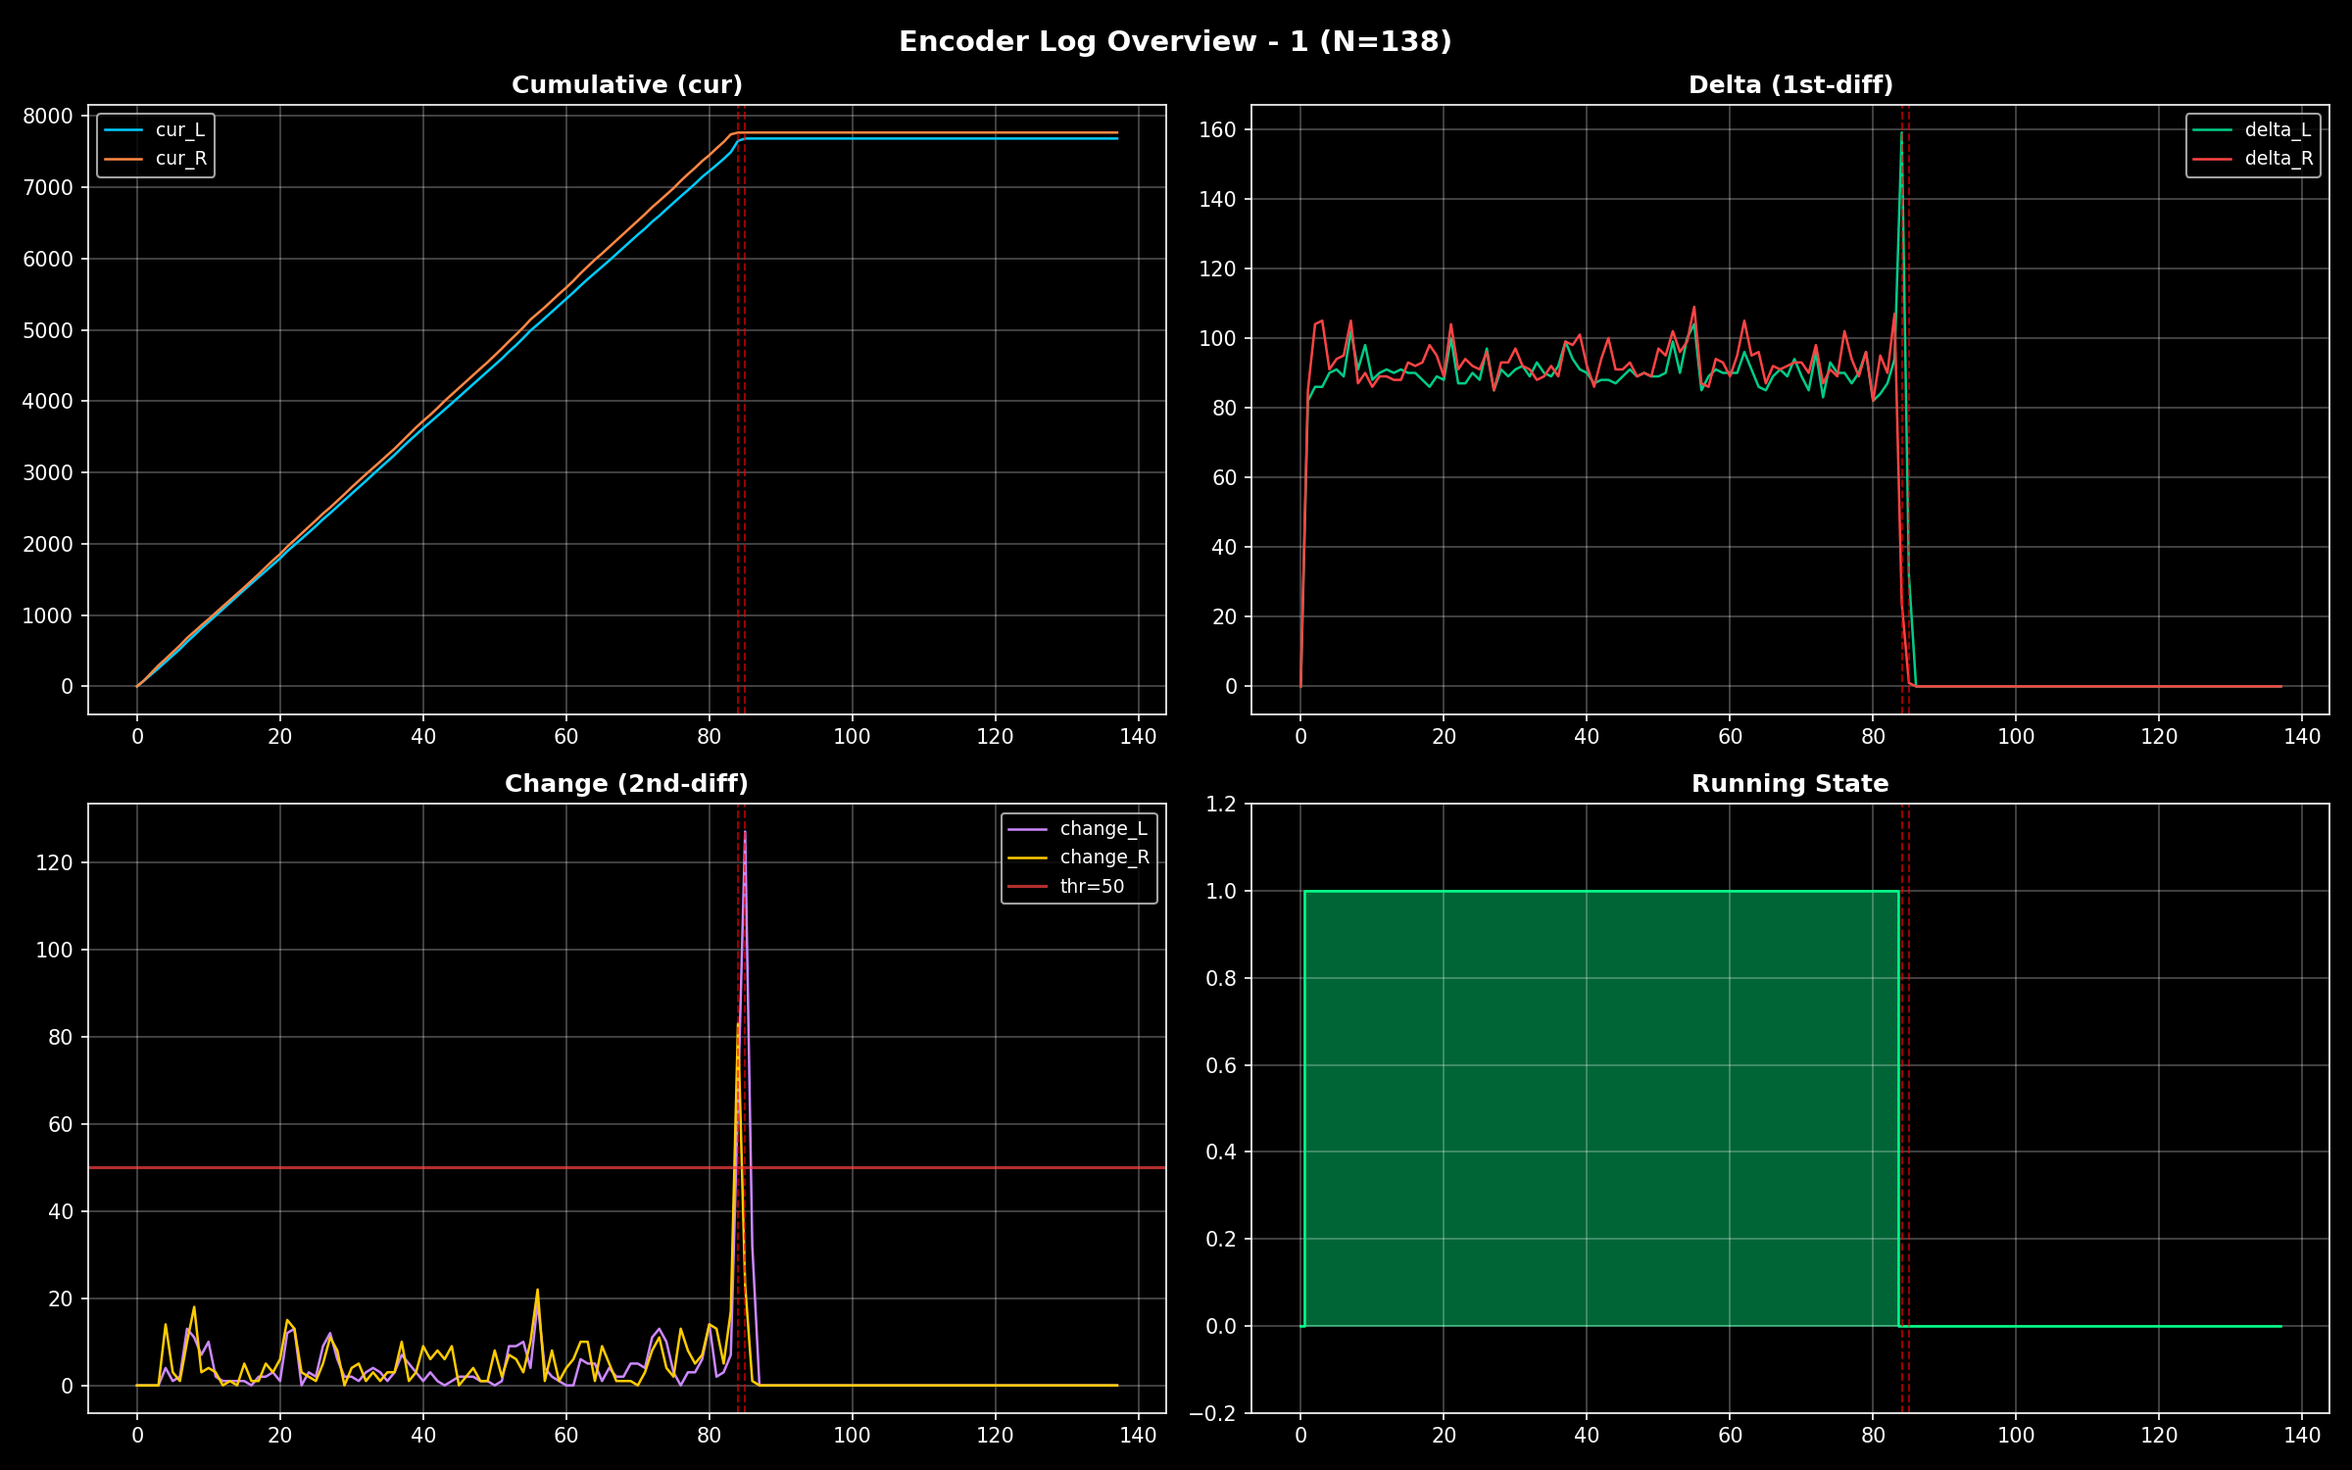
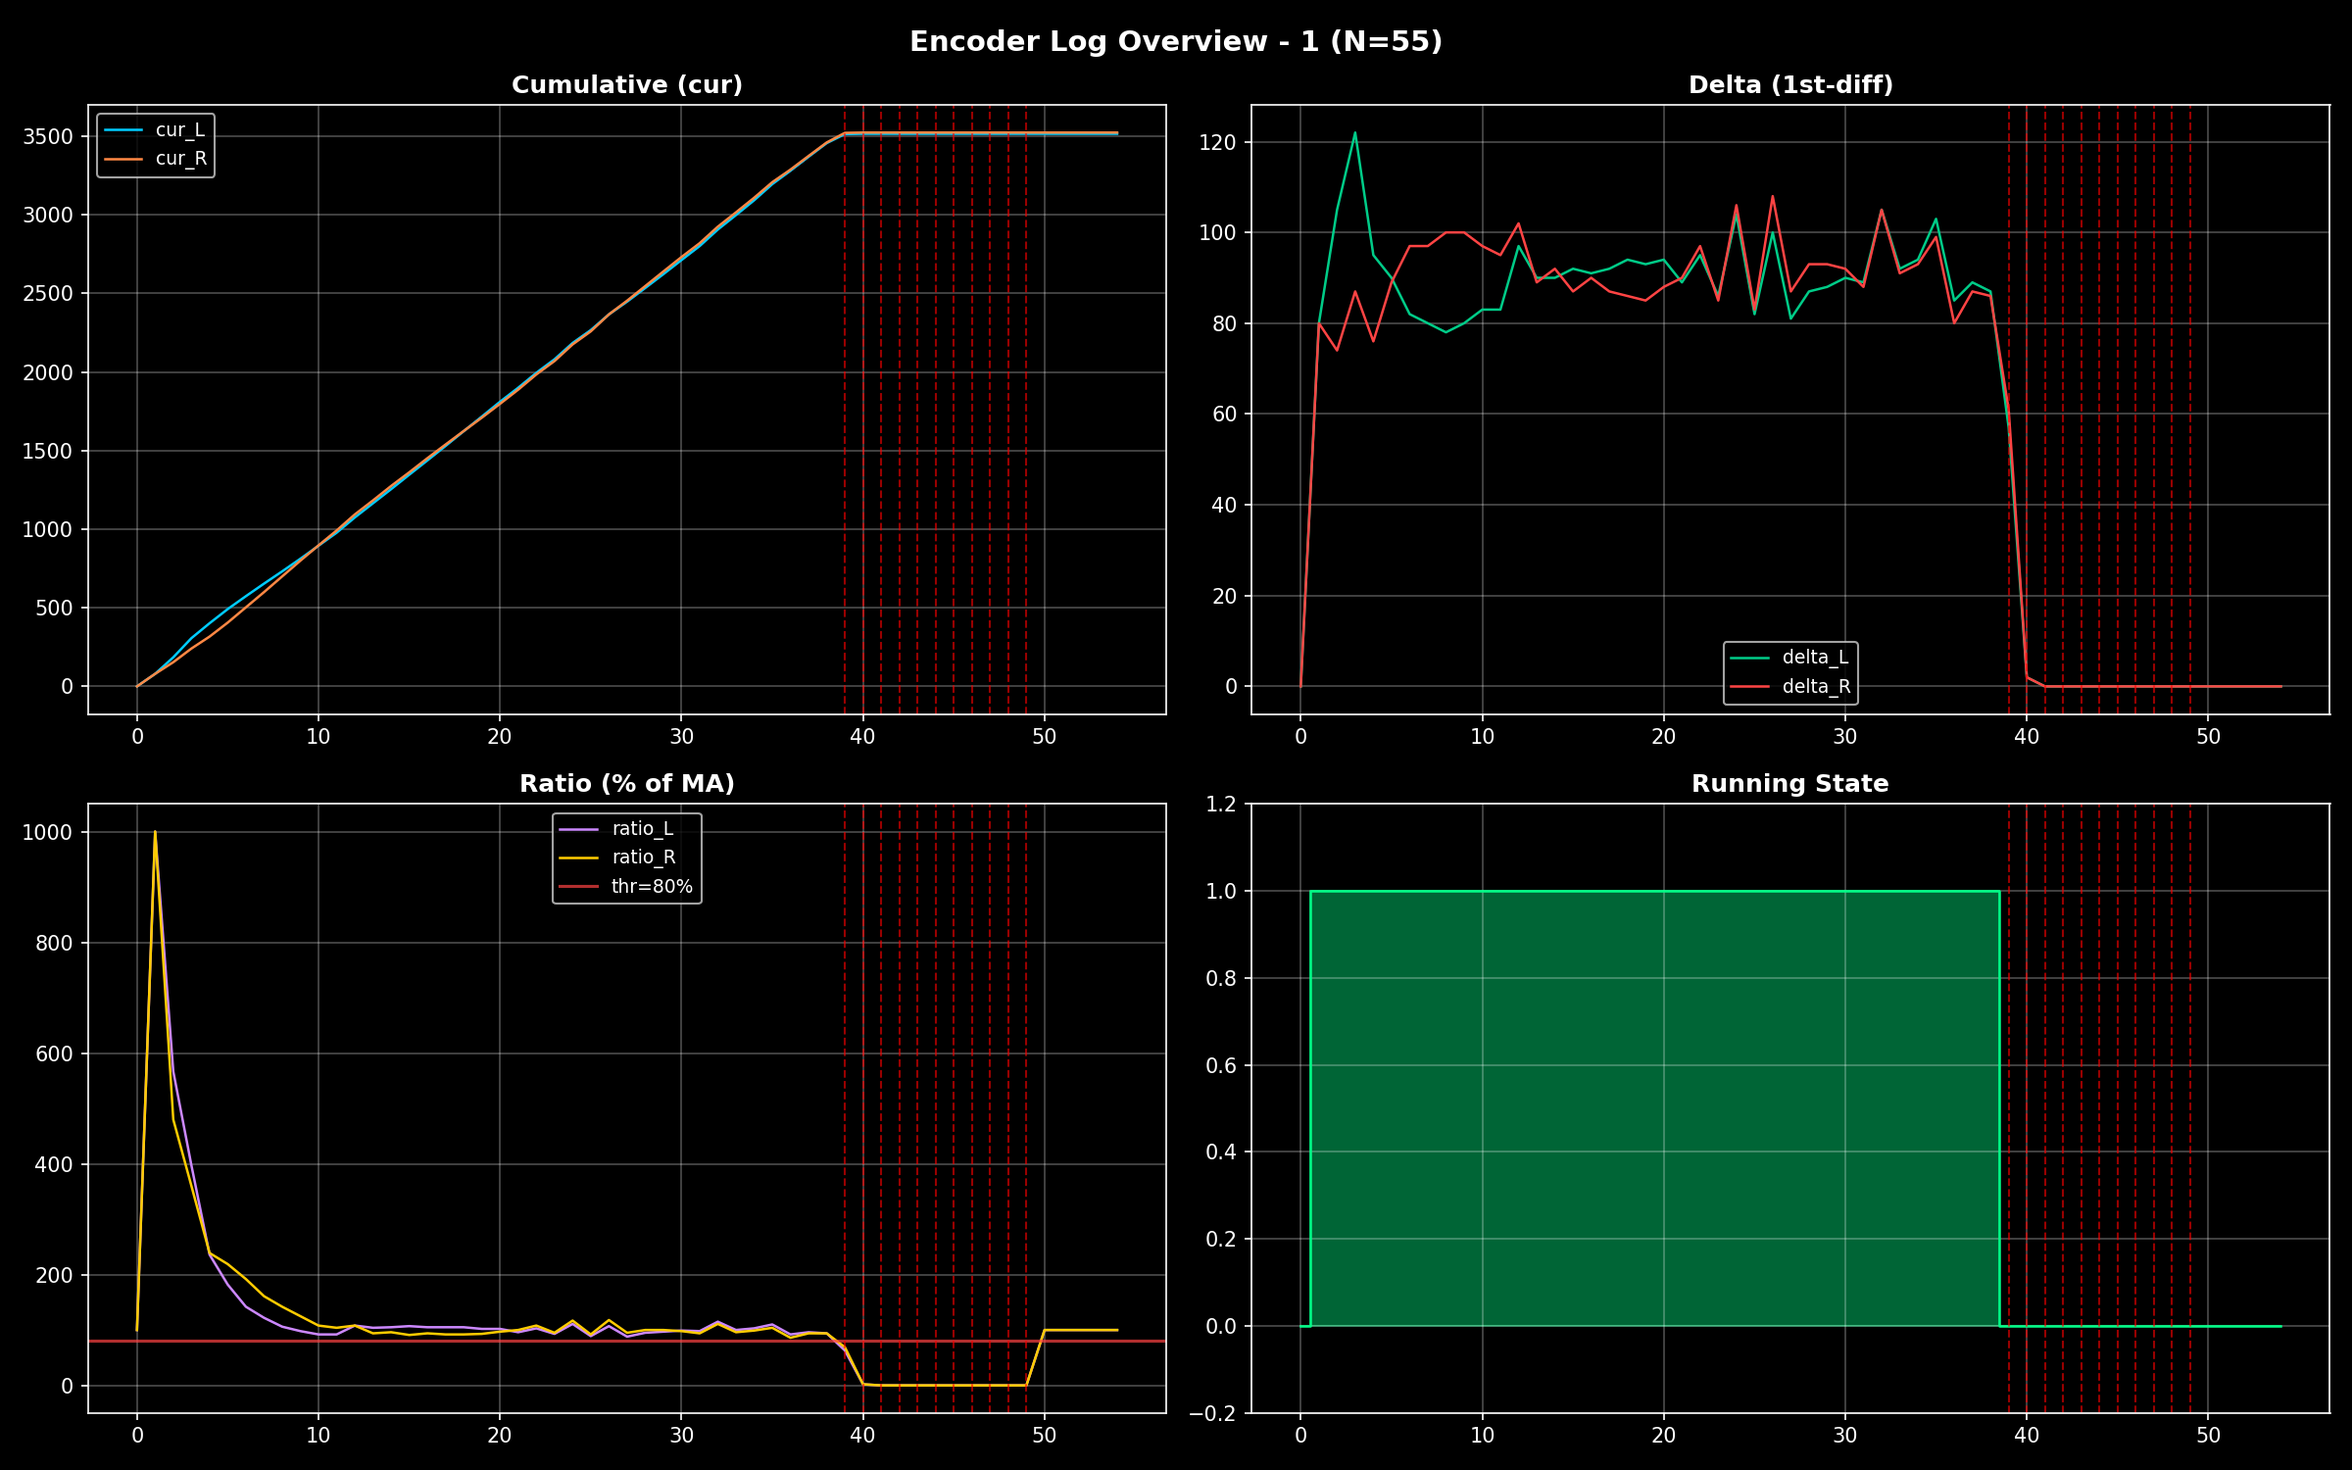
一个可用的base版的碰撞检测，根据当前增量与前10帧增量均值作比较，看有没有掉速，阈值为掉速到原来的80%

diff --git a/main/app_main.cpp b/main/app_main.cpp
@@ -676,20 +676,16 @@ static void experiment_stream(int cmd_sock, int img_sock)
     float g_last_valid_g1 = OUTPUT_WIDTH / 2;
     float g_last_valid_g2 = OUTPUT_WIDTH / 2;
 
-    // 编码器跳变检测（碰撞检测）
+    // 编码器碰撞检测：移动平均比值法
     static int prev_enc_l = 0, prev_enc_r = 0;       // 上一帧累计脉冲值
-    static int prev_delta_l = 0, prev_delta_r = 0;    // 上一帧的增量(用于二阶差分)
     static bool enc_init_done = false;
     
-    // 碰撞检测参数：相邻帧间"增量的变化量"超过此阈值视为突变
-    static const int DELTA_CHANGE_THRESHOLD = 50;       // 脉冲数
-    // 需要至少累计这么多脉冲才认为增量有效(过滤启动阶段噪声)
-    static const int ENC_MIN_DELTA = 5;
-    // 需要连续多少帧有效增量后才启用检测(需要至少2帧才能算二阶差分)
-    static const int ENC_WARMUP_FRAMES = 3;
-    // 正式检测前，prev_delta必须达到此值才允许TRIGGER(防止加速阶段误触)
-    static const int BASELINE_MIN_DELTA = 10;
-    static int warmup_count = 0;
+    // 移动平均窗口参数
+    static const int MA_WINDOW = 10;                   // 滑动窗口大小（帧）
+    static int delta_hist_l[10] = {0}, delta_hist_r[10] = {0};
+    static int ma_idx = 0;                             // 环形写入位置
+    static int ma_count = 0;                           // 已填充帧数
+    static const float MA_DROP_RATIO = 0.80f;          // 当前delta低于均值80%即可触发
     
     while (1) {
         int64_t t0 = esp_timer_get_time();  // 总开始
@@ -743,65 +739,56 @@ static void experiment_stream(int cmd_sock, int img_sock)
         
         esp_camera_fb_return(fb);
 
-        // ========== 编码器跳变检测（碰撞检测）：二阶差分 = 增量的突变 ==========
-        int log_change_l = 0, log_change_r = 0;  // 供外层send_buf使用
+        // ========== 编码器碰撞检测：移动平均比值法 ==========
+        int log_ratio_l = 0, log_ratio_r = 0;  // 供外层send_buf使用
         {
             int enc_l = 0, enc_r = 0;
             encoder_read(&enc_l, &enc_r);
 
             const char *enc_state = "OK";
-            
 
             if (!enc_init_done) {
                 enc_init_done = true;
-                warmup_count = 0;
-                prev_delta_l = 0;
-                prev_delta_r = 0;
                 enc_state = "INIT";
             } else {
                 // 计算本帧增量
                 int cur_delta_l = enc_l - prev_enc_l;
                 int cur_delta_r = enc_r - prev_enc_r;
 
-                // 溢出检测：ESP32编码器每32768清零
+                // 溢出检测：ESP32编码器每32768清零，重置历史窗口
                 bool overflow_l = (enc_l < 100 && prev_enc_l > 30000);
                 bool overflow_r = (enc_r < 100 && prev_enc_r > 30000);
-                
+
                 if (overflow_l || overflow_r) {
                     enc_state = "OVERFLOW";
-                    // 重置warmup，重新积累
-                    warmup_count = 0;
-                    prev_delta_l = 0;
-                    prev_delta_r = 0;
-                    log_change_l = 0;
-                    log_change_r = 0;
-                } else if (warmup_count < ENC_WARMUP_FRAMES) {
-                    // ===== 预热阶段：还没凑够2帧有效历史 =====
-                    if (abs(cur_delta_l) >= ENC_MIN_DELTA && abs(cur_delta_r) >= ENC_MIN_DELTA) {
-                        // 增量够大，记入历史
-                        warmup_count++;
-                        prev_delta_l = cur_delta_l;
-                        prev_delta_r = cur_delta_r;
-                    }
-                    // 增量太小就不计数，但也不重置（等车动起来就行）
-                    enc_state = "WARMUP";
-                    log_change_l = abs(cur_delta_l - prev_delta_l);
-                    log_change_r = abs(cur_delta_r - prev_delta_r);
+                    ma_idx = 0;
+                    ma_count = 0;
                 } else {
-                    // ===== 正式检测阶段：已过warmup，永远不再回退(除非overflow) =====
-                    // 核心逻辑：比较"本帧增量"与"上帧增量"的变化幅度
-                    // 注意：碰撞时delta会骤降(如24→3)，这恰恰是我们要检测的！
-                    int change_l = abs(cur_delta_l - prev_delta_l);
-                    int change_r = abs(cur_delta_r - prev_delta_r);
-                    log_change_l = change_l;
-                    log_change_r = change_r;
+                    // 写入滑动窗口
+                    delta_hist_l[ma_idx] = cur_delta_l;
+                    delta_hist_r[ma_idx] = cur_delta_r;
+                    ma_idx = (ma_idx + 1) % MA_WINDOW;
+                    if (ma_count < MA_WINDOW) ma_count++;
 
-                    // 触发条件：
-                    //   1. 任一轮change超过阈值（OR逻辑：单轮卡住也算碰撞）
-                    //   2. 上帧prev_delta必须够大（说明已有正常行驶基线，不是刚启动）
-                    bool baseline_ok = (abs(prev_delta_l) >= BASELINE_MIN_DELTA && abs(prev_delta_r) >= BASELINE_MIN_DELTA);
-                    if ((change_l > DELTA_CHANGE_THRESHOLD || change_r > DELTA_CHANGE_THRESHOLD) && baseline_ok) {
-                        // 出现增量突变 → 碰撞！
+                    // 计算移动平均
+                    int sum_l = 0, sum_r = 0;
+                    for (int i = 0; i < MA_WINDOW; i++) {
+                        sum_l += delta_hist_l[i];
+                        sum_r += delta_hist_r[i];
+                    }
+                    float avg_l = (float)sum_l / MA_WINDOW;
+                    float avg_r = (float)sum_r / MA_WINDOW;
+
+                    // 本帧delta占均值的百分比
+                    int ratio_l = (avg_l > 0) ? (int)(cur_delta_l / avg_l * 100) : 100;
+                    int ratio_r = (avg_r > 0) ? (int)(cur_delta_r / avg_r * 100) : 100;
+                    log_ratio_l = ratio_l;
+                    log_ratio_r = ratio_r;
+
+                    // 触发条件：窗口已满 + 累积脉冲>2000 + 任一轮delta低于均值60%
+                    bool enc_moving = (abs(enc_l) > 2000 && abs(enc_r) > 2000);
+                    int thr_percent = (int)(MA_DROP_RATIO * 100);
+                    if (ma_count >= MA_WINDOW && enc_moving && (ratio_l < thr_percent || ratio_r < thr_percent)) {
                         motor_stop();
                         g_motor_base_speed = 0;
                         g_motor_running = false;
@@ -809,24 +796,20 @@ static void experiment_stream(int cmd_sock, int img_sock)
                     } else {
                         enc_state = "OK";
                     }
-
-                    // 滚动更新：本轮delta成为下一轮的prev_delta（即使很小也更新）
-                    prev_delta_l = cur_delta_l;
-                    prev_delta_r = cur_delta_r;
                 }
             }
 
             // 每帧统一打印编码器状态
             char enc_log_buf[160];
             int enc_log_len = snprintf(enc_log_buf, sizeof(enc_log_buf),
-                "[Enc] %-7s | cur L=%5d R=%5d | delta L=%5d R=%5d | change L=%3d R=%3d (thr=%2d) | running=%d",
+                "[Enc] %-7s | cur L=%5d R=%5d | delta L=%5d R=%5d | ratio L=%3d%% R=%3d%% (thr=%d%%) | running=%d",
                 enc_state, enc_l, enc_r,
                 enc_l - prev_enc_l, enc_r - prev_enc_r,
-                log_change_l, log_change_r,
-                DELTA_CHANGE_THRESHOLD, (int)g_motor_running);
-            ESP_LOGI(TAG, "%s", enc_log_buf);  // 串口
+                log_ratio_l, log_ratio_r,
+                (int)(MA_DROP_RATIO * 100), (int)g_motor_running);
+            ESP_LOGI(TAG, "%s", enc_log_buf);
             strcat(enc_log_buf, "\n");
-            send(cmd_sock, enc_log_buf, enc_log_len + 1, 0);  // TCP给小程序
+            send(cmd_sock, enc_log_buf, enc_log_len + 1, 0);
 
             // 更新上一帧累计值
             prev_enc_l = enc_l;
@@ -895,8 +878,8 @@ static void experiment_stream(int cmd_sock, int img_sock)
             send_buf[4] = g_motor_r_pwm;
             send_buf[5] = (uint8_t)g1;   // G1: 顶部质心x
             send_buf[6] = (uint8_t)g2;   // G2: 底部质心x
-            send_buf[7] = (uint8_t)(log_change_l > 255 ? 255 : log_change_l);  // 左轮change
-            send_buf[8] = (uint8_t)(log_change_r > 255 ? 255 : log_change_r);  // 右轮change
+            send_buf[7] = (uint8_t)(log_ratio_l > 255 ? 255 : log_ratio_l);  // 左轮delta占比(%)
+            send_buf[8] = (uint8_t)(log_ratio_r > 255 ? 255 : log_ratio_r);  // 右轮delta占比(%)
             memcpy(send_buf + header_size, overlay_data, overlay_size);
 
             int total_sent = send(img_sock, send_buf, frame_packet_size, 0);

diff --git a/py_scripts/utils/tools.py b/py_scripts/utils/tools.py
@@ -506,8 +506,8 @@ def parse_and_plot_enc_log(log_path, output_dir=None):
         解析 [Enc] 格式的编码器日志，提取各字段数值并绑制2x2综合overview图
 
     日志格式示例:
-        [Enc] OK | cur L= 457 R= 404 | delta L= 81 R= 105 | change L= 35 R= 46 (thr=50) | running=1
-        [Enc] TRIGGER | cur L= 963 R= 786 | delta L= 81 R= 103 | change L= 47 R= 56 (thr=50) | running=0
+        [Enc] OK | cur L= 3535 R= 3587 | delta L= 53 R= 56 | ratio L= 59% R= 62% (thr=60%) | running=1
+        [Enc] TRIGGER | cur L= 4657 R= 4662 | delta L= 6 R= 4 | ratio L= 7% R= 5% (thr=60%) | running=0
 
     入参:
         log_path: str - 日志文件路径（如 esp32log.txt）
@@ -524,8 +524,8 @@ def parse_and_plot_enc_log(log_path, output_dir=None):
     pattern = re.compile(
         r'\[Enc\]\s+(\w+)\s*\|\s*cur\s+L=\s*(-?\d+)\s+R=\s*(-?\d+)'
         r'\s*\|\s*delta\s+L=\s*(-?\d+)\s+R=\s*(-?\d+)'
-        r'\s*\|\s*change\s+L=\s*(-?\d+)\s+R=\s*(-?\d+)'
-        r'\s*\(thr=(\d+)\)\s*\|\s*running=(\d+)'
+        r'\s*\|\s*ratio\s+L=\s*(-?\d+)%\s+R=\s*(-?\d+)%'
+        r'\s*\(thr=(\d+)%\)\s*\|\s*running=(\d+)'
     )
 
     records = []
@@ -539,8 +539,8 @@ def parse_and_plot_enc_log(log_path, output_dir=None):
             'cur_R':    int(m.group(3)),
             'delta_L':  int(m.group(4)),
             'delta_R':  int(m.group(5)),
-            'change_L': int(m.group(6)),
-            'change_R': int(m.group(7)),
+            'ratio_L':  int(m.group(6)),
+            'ratio_R':  int(m.group(7)),
             'thr':      int(m.group(8)),
             'running':  int(m.group(9)),
         })
@@ -559,8 +559,8 @@ def parse_and_plot_enc_log(log_path, output_dir=None):
     cur_R    = np.array([r['cur_R']    for r in records], dtype=np.int64)
     delta_L  = np.array([r['delta_L']  for r in records], dtype=np.int64)
     delta_R  = np.array([r['delta_R']  for r in records], dtype=np.int64)
-    change_L = np.array([r['change_L'] for r in records], dtype=np.int64)
-    change_R = np.array([r['change_R'] for r in records], dtype=np.int64)
+    ratio_L  = np.array([r['ratio_L']  for r in records], dtype=np.int64)
+    ratio_R  = np.array([r['ratio_R']  for r in records], dtype=np.int64)
     thr      = np.array([r['thr']      for r in records], dtype=np.int32)
     running  = np.array([r['running']  for r in records], dtype=np.int32)
 
@@ -587,12 +587,12 @@ def parse_and_plot_enc_log(log_path, output_dir=None):
     axes[0,1].set_title('Delta (1st-diff)', fontsize=12, fontweight='bold')
     axes[0,1].legend(fontsize=9); axes[0,1].grid(alpha=0.3)
 
-    axes[1,0].plot(idx, change_L, label='change_L', color='#CC88FF', linewidth=1.2)
-    axes[1,0].plot(idx, change_R, label='change_R', color='#FFCC00', linewidth=1.2)
-    axes[1,0].axhline(y=thr[0], color='#FF4444', linestyle='-', label=f'thr={thr[0]}', alpha=0.7, linewidth=1.5)
+    axes[1,0].plot(idx, ratio_L, label='ratio_L', color='#CC88FF', linewidth=1.2)
+    axes[1,0].plot(idx, ratio_R, label='ratio_R', color='#FFCC00', linewidth=1.2)
+    axes[1,0].axhline(y=thr[0], color='#FF4444', linestyle='-', label=f'thr={thr[0]}%', alpha=0.7, linewidth=1.5)
     for ti in trigger_idx:
         axes[1,0].axvline(x=ti, color='red', linestyle='--', alpha=0.6, linewidth=1)
-    axes[1,0].set_title('Change (2nd-diff)', fontsize=12, fontweight='bold')
+    axes[1,0].set_title('Ratio (% of MA)', fontsize=12, fontweight='bold')
     axes[1,0].legend(fontsize=9); axes[1,0].grid(alpha=0.3)
 
     axes[1,1].fill_between(idx, running, step='mid', color='#00FF88', alpha=0.4)
@@ -614,7 +614,7 @@ def parse_and_plot_enc_log(log_path, output_dir=None):
         'n': n, 'status': status,
         'cur_L': cur_L, 'cur_R': cur_R,
         'delta_L': delta_L, 'delta_R': delta_R,
-        'change_L': change_L, 'change_R': change_R,
+        'ratio_L': ratio_L, 'ratio_R': ratio_R,
         'thr': thr, 'running': running,
         'trigger_idx': trigger_idx,
     }
@@ -650,7 +650,7 @@ if __name__ == "__main__":
     
 
 
-    my_log_path = r"E:\AICleanBot\logs\encoder\2.txt"
+    my_log_path = r"E:\AICleanBot\logs\encoder\1.txt"
     parse_and_plot_enc_log(my_log_path)
 
 
